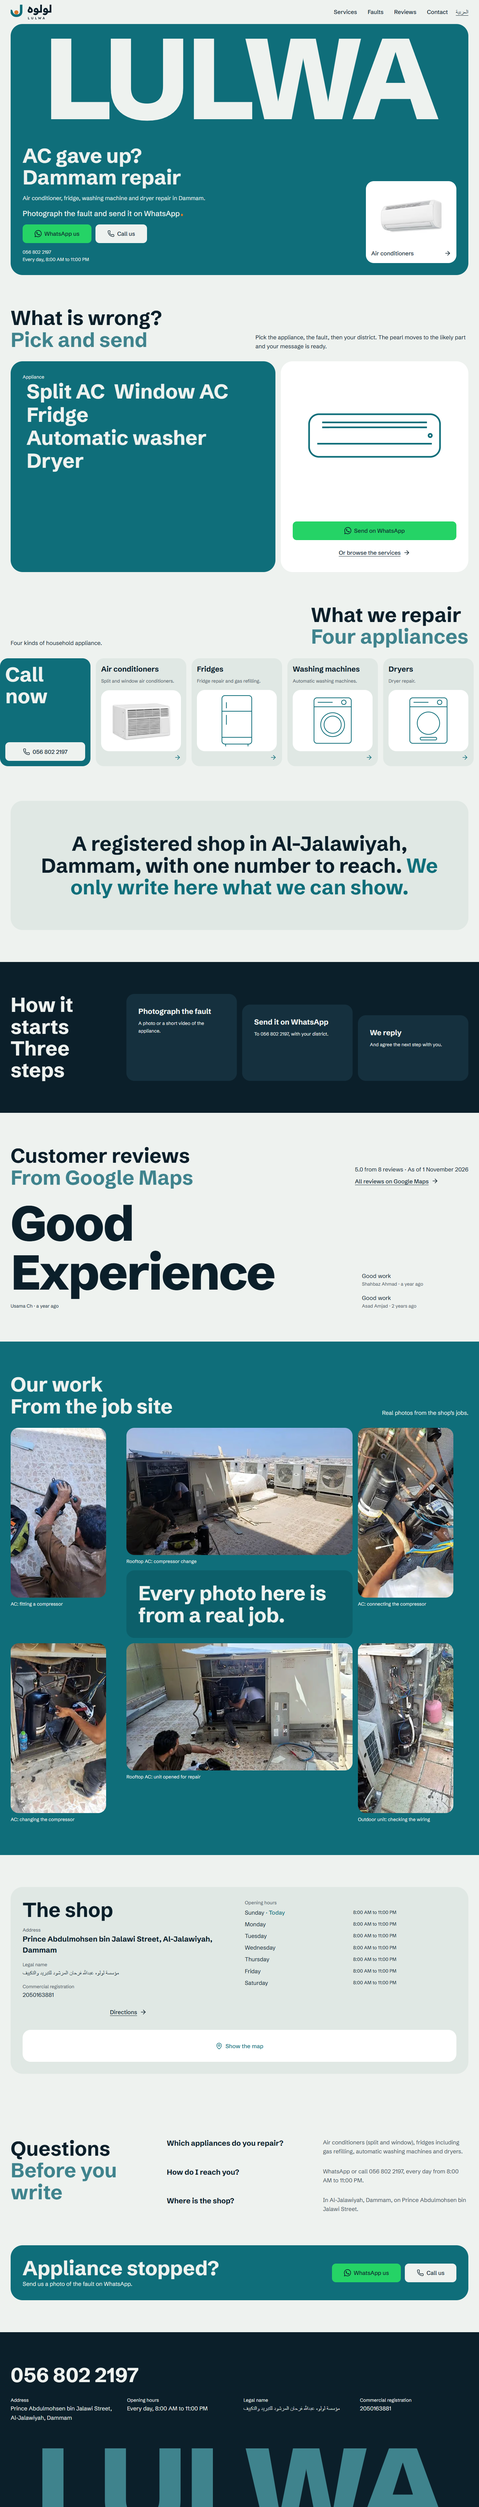
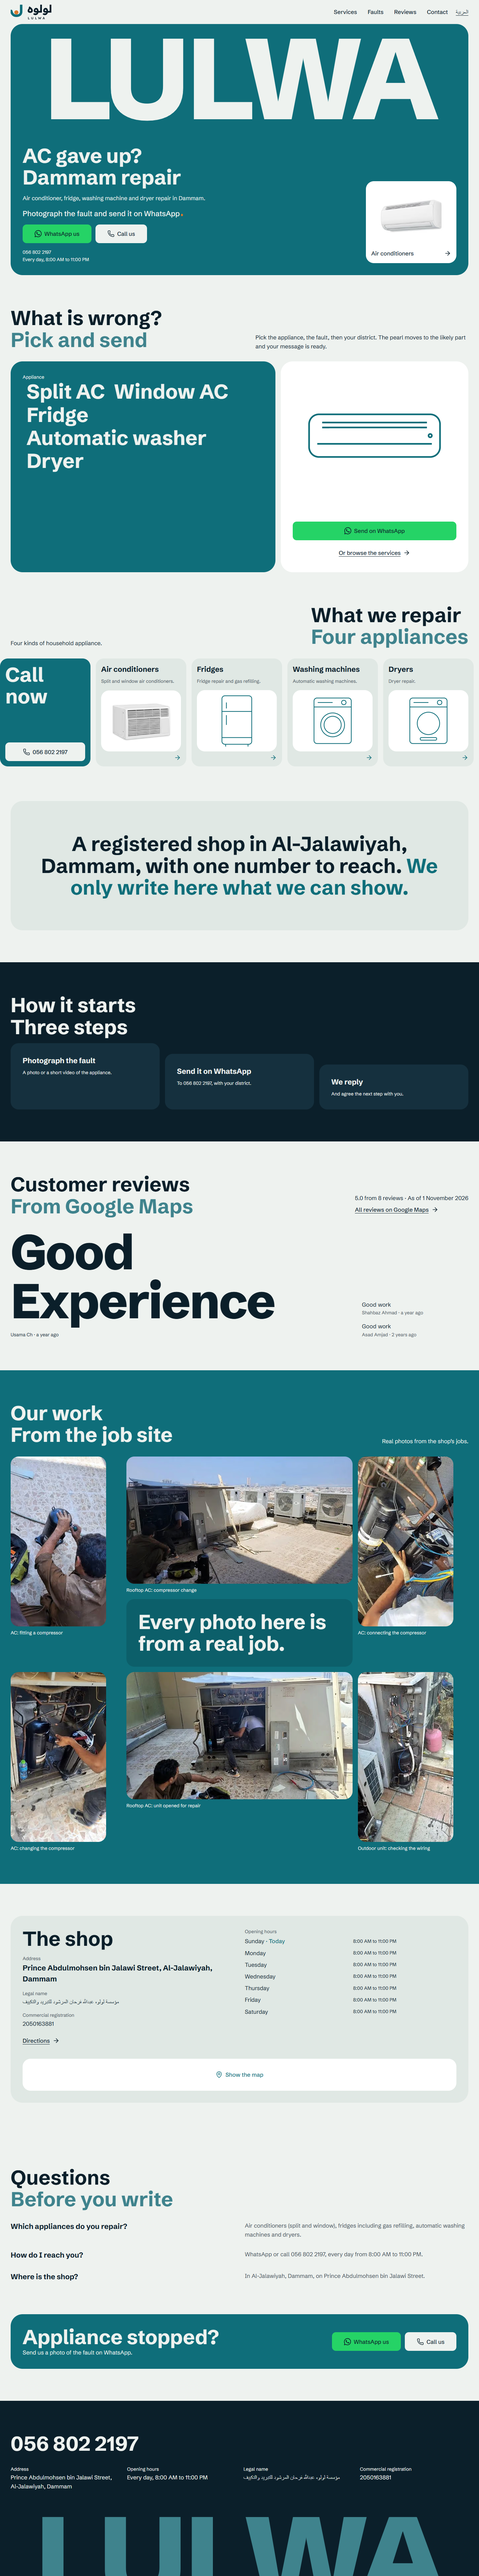
phase 4: homepage and fault picker

Changed region(s): [[0.0, 0.1561, 1.0, 0.9676], [0.0, 0.0312, 0.5938, 0.1873], [0.75, 0.0624, 0.9688, 0.1249]]

diff --git a/docs/PHASES.md b/docs/PHASES.md
@@ -8,6 +8,23 @@ Each phase appends a dated entry: what shipped, what is left, decisions made.
 
 ## Log
 
+### 2026-11-01 · Phase 4: Homepage and fault picker
+- Shipped: fault picker, all home bands in Arabic and English, `scripts/images.mjs` with sharp, `scripts/gen-products.py`. Screens in `docs/shots/phase-4/`, looked at and fixed.
+- Green: T14, T22, and on `/` and `/en`: T6, T21, T7, T12, T13, T10, T11, T8, T9. T19, lint, typecheck. Full `test:contract` not run; other routes do not exist yet.
+- Lighthouse, phone, one run per page, local preview, not a clean machine: `/` 99/100/96/100, LCP 1.6 s, TBT 0, CLS 0.002, 131 KB. `/en` 100/100/96/100, LCP 1.3 s, TBT 0, CLS 0, 61 KB. Best practices stays at 96 for the Phase 8 favicon 404.
+- Followed the Reference update over the band list: heading beside text, bento picker, sideways service row with a tinted call card, tinted statement panel, simple process row. Rounded cards are structure.
+- Decided: the pearl moves on line drawings in the picker, not product images, because a drawing gives exact spots and costs no network. Without JS every option is a plain link.
+- Decided: quota ran out after window AC and outdoor unit. Fridge, washer and dryer cards use the same drawings, as the Reference update allows. `Home.astro` switches to an image as soon as `scripts/images.mjs` lists it. Outdoor unit raw is kept but not exported, nothing uses it. Compressor image dropped.
+- Decided: photos come from `Edited`, shrunk to the WhatsApp original's width (287 or 680 px). Six of 12 used; the reasons for the others are in `scripts/images.mjs`.
+- Decided: picker areas are Al-Jalawiyah and "another Dammam district", since nothing wider is confirmed. Source tag is `[home]`; Phase 7 generalises it.
+- Decided: hours table has seven identical rows with today marked, because the prompt asks for it. A small script marks today and loads the map on tap. JS stays inside T13's 6 KB.
+- Decided: `--container-page` is now 90rem so content shares the hero's margins at 1440. `--word-display` added because Beiruti's space is too thin at display size. Heading's quiet line is inline after a `<br>`, so T11 counts lines correctly.
+- Test change: T6 ignores `<svg>`, since a lucide path holding `14.993` matched `/4\.9/`. Claims in text are still checked.
+- Worked alone, no builders: one file set. agy: 2 images, 4 hit the 429 and cost nothing, 1 Arabic review (rejected `أرسلها` and `بدون تعديل`, the second is false for retouched photos). Fault lists and drawings written by the lead, so the planned agy jobs for those were skipped. agy design critique skipped; judged screenshots directly.
+- T20 still red, owed by Phase 9. Not fixed on purpose: `side-scroll` and `eyebrow` (the Reference update's row, and the picker's step labels), `still-page` and `no-footage` (one authored moment, no stock video), `covered-text` (phone bar passing over text while scrolling). Also open: `headline-lines` on the statement paragraph (it is a `<p>`, as the inspector advises, and still flagged) and `ragged-edges`.
+- T11 once passed while a screenshot showed "How it starts / Three steps" on 4 lines at 1440. Layout fixed; the test may measure before fonts load, worth a look in Phase 9.
+- Left: fault-to-part technician check, three product images, exact map pin. All in `docs/FOR-AMEER.md`. Not tried on a real phone. `/ponytail:ponytail-review` by eye only. Links to service pages 404 until Phase 5.
+
 ### 2026-11-01 · Phase 3: Chrome and hero
 - Shipped: top bar, phone menu, language link to the exact twin, footer, Ink bottom bar on phones, hero in Arabic and English, one generated tile image. Screens in `docs/shots/phase-3/`, looked at and fixed.
 - Green: T7, T12, T13 on `/` and `/en`. Also T6, T21, T19, T22, typecheck, and for these two pages T8, T10, T11 and the T9 language and menu cases. The full `test:contract` was not run; other routes do not exist yet.
